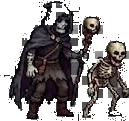
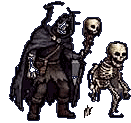
夥伴角色強化（5/12）：死靈法師
- 修圖：灰色棋盤格殘渣清掉；第 3 階段紫水晶、第 5 階段紫色煙霧裡的棋盤格抹平成半透明紫色靈氣，白色幽靈保留
- 特效：綠色魂火光暈、環繞小骷髏
- 專屬背景：起霧的墓園，綠月、教堂剪影、鐵欄杆、墓碑、枯樹，鬼火飄著、綠霧流動
- 部位動作：頭、上半身呼吸；召喚的骷髏、騎士、狼點頭；第 3 階段魂火跳動

Claude-Session: https://claude.ai/code/session_016wQJDqNmeMZi3CzSXZ7hYD

diff --git a/web/js/core.js b/web/js/core.js
@@ -177,11 +177,14 @@ const PET_FX = {
   // 馴獸師：森林的綠光，周圍繞著飄葉；人和野獸站在地上（不浮空）
   // 精靈使：水青色的靈光，環繞小光球；最終階段浮空
   spirit: { from: 2, aura: "140,240,215", orb: "wisp", colors: ["#1E6B66", "#5FE0C8", "#F2FFF9"], spark: "#BFFFF0", float: 5, sway: 2 },
+  // 死靈法師：綠色魂火的光暈，環繞小骷髏
+  necromancer: { from: 2, aura: "110,240,150", orb: "skull", colors: ["#1A1424", "#E8E2CF", "#4DFF9A"], spark: "#9BFFC4", sway: 2 },
   beast_tamer: { from: 2, aura: "140,215,100", orb: "leaf", colors: ["#28501C", "#68AE36", "#D2F59A"], spark: "#CFF59A", sway: 2 },
 };
 const ORB_GRID = {
   flame: ["...1...", "..121..", "..121..", ".12221.", ".12321.", "1223321", "1233321", ".12321.", "..111.."],
   bat: ["1.......1", "11.....11", "111.1.111", "111222111", ".1232321.", "..12221..", "...1.1..."],
+  skull: [".11111.", "1222221", "1322231", "1222221", ".12221.", ".12121.", "..111.."],
   wisp: ["..111..", ".12221.", "1233321", "1233321", ".12321.", "..121..", "...1..."],
   leaf: ["....111", "...1221", "..12321", ".123221", "1232211", "122211.", "1111...", "1......"],
 };
@@ -262,6 +265,27 @@ const PET_SCENE = {
       .map(([x, y], i) => `<i class="star" style="left:${(x / 160) * 100}%;top:${(y / 80) * 100}%;--i:${i}"></i>`).join("");
     return `<svg class="scene-art" viewBox="0 0 160 80" preserveAspectRatio="xMidYMax slice" shape-rendering="crispEdges">${s}</svg>${stars}<i class="mist"></i><i class="mist m2"></i>`;
   },
+  // 死靈法師：起霧的墓園，綠色月亮、墓碑、鐵欄杆、枯樹，鬼火飄著、地上綠霧流動
+  necromancer: () => {
+    let s = bands(0, ["#0A0E12", "#0D1318", "#10181D", "#131D22", "#162227", "#19272B", "#1C2C2F", "#1F3132", "#223534", "#253936"], 5);
+    s += pxCircle(36, 16, 9, "#2E5A3E") + pxCircle(36, 16, 8, "#9DE8A8") + pxCircle(33, 13, 2, "#7CCB8A") + pxCircle(39, 19, 2, "#7CCB8A");
+    // 遠方的山丘和教堂剪影
+    for (let x = 0; x < 160; x += 2) { const h = 5 + Math.round(3 * Math.sin(x / 12) + 2 * Math.sin(x / 4.3)); s += PX(x, 46 - h, 2, h, "#0C1614"); }
+    s += PX(110, 24, 16, 20, "#0A1210") + PX(116, 14, 4, 10, "#0A1210") + PX(117, 10, 2, 4, "#0A1210") + PX(115, 11, 6, 1, "#0A1210") + PX(117, 30, 2, 4, "#7CFFAA");
+    // 地面
+    s += PX(0, 46, 160, 34, "#1B2620") + PX(0, 46, 160, 2, "#26362C") + PX(0, 62, 160, 18, "#141C18");
+    // 鐵欄杆
+    for (let x = 0; x < 160; x += 6) s += PX(x, 38, 1, 9, "#0A0F0D") + PX(x, 37, 1, 1, "#3A4A42");
+    s += PX(0, 40, 160, 1, "#0A0F0D") + PX(0, 44, 160, 1, "#0A0F0D");
+    // 墓碑
+    const tomb = (x, y, w, h) => PX(x, y + 2, w, h - 2, "#5E6A66") + PX(x + 1, y, w - 2, 2, "#5E6A66") + PX(x + 1, y + 2, 1, h - 3, "#7D8A85") + PX(x + 2, y + 4, w - 4, 1, "#3C4643") + PX(x - 1, y + h, w + 2, 1, "#0E1412");
+    s += tomb(16, 48, 8, 10) + tomb(30, 52, 6, 8) + tomb(126, 49, 9, 11) + tomb(142, 54, 6, 8) + tomb(104, 58, 7, 9);
+    s += PX(52, 50, 2, 9, "#4E5955") + PX(50, 52, 6, 2, "#4E5955");
+    // 枯樹（右邊）
+    s += PX(150, 20, 3, 28, "#080C0A") + PX(144, 26, 6, 2, "#080C0A") + PX(153, 24, 6, 2, "#080C0A") + PX(142, 23, 2, 3, "#080C0A") + PX(158, 21, 2, 3, "#080C0A");
+    const wisps = Array.from({ length: 6 }, (_, i) => `<i class="firefly ghostfire" style="--i:${i}"></i>`).join("");
+    return `<svg class="scene-art" viewBox="0 0 160 80" preserveAspectRatio="xMidYMax slice" shape-rendering="crispEdges">${s}</svg>${wisps}<i class="mist green"></i><i class="mist green m2"></i>`;
+  },
   // 精靈使：月夜的精靈泉，極光、古樹、發光的蘑菇，螢火慢慢往上飄
   spirit: () => {
     let s = bands(0, ["#0B1430", "#0E1B3B", "#112346", "#142C50", "#17365A", "#1A4062", "#1D4A69", "#20536E", "#235B72", "#266274"], 5);
@@ -330,6 +354,7 @@ const PET_FRONT = {
       `<i class="petal front" style="--i:2"></i><i class="petal front" style="--i:5"></i>`;
   },
   succubus: () => `<i class="mist front"></i><i class="mist front m2"></i>`,
+  necromancer: () => `<i class="mist green front"></i><i class="mist green front m2"></i>`,
   spirit: () => {
     let s = "";
     for (let x = 0; x < 160; x += 3) {
@@ -353,7 +378,7 @@ const petFront = (id) => (PET_FRONT[id] ? `<span class="scene-front" aria-hidden
 
 // 夥伴圖：有拆部位的（rigs.json）用分層組回角色，點擊時頭、翅膀、尾巴、下襬各自動；沒有的用整張圖
 // 圖層順序：翅膀、尾巴、魔力圈在身體後面；上半身、頭在前面。腳留在身體層，不另外動
-const RIG_Z = { wingL: 0, wingR: 0, tail: 0, tailL: 0, tailR: 0, ringL: 0, ringR: 0, torso: 2, head: 3, beast: 2, mane: 2, crystal: 3, wisp: 3, fairy: 3, ghost: 3, flame: 3 };
+const RIG_Z = { wingL: 0, wingR: 0, tail: 0, tailL: 0, tailR: 0, ringL: 0, ringR: 0, torso: 2, head: 3, beast: 2, mane: 2, crystal: 3, wisp: 3, fairy: 3, ghost: 3, flame: 3, minion: 2 };
 function petSprite(id, stage, boxH) {
   const rig = S.rigs?.[id]?.[stage + 1], sp = species(id);
   if (!rig || !sp) return charImg(id, stage, boxH);

diff --git a/web/style.css b/web/style.css
@@ -862,6 +862,9 @@ ol.steps { margin: 0; padding-left: 1.4em; font-size: .9375rem; line-height: 1.7
   linear-gradient(#2E3B36, #2E3B36) 2px 1px / 3px 1px no-repeat; }
 .scene .firefly, .scene-front .firefly { position: absolute; bottom: 12%; left: calc(6% + var(--i) * 12%); width: 3px; height: 3px;
   background: #E4FFB0; box-shadow: 0 0 5px 1px rgba(200, 255, 150, .8); opacity: 0; }
+.scene .firefly.ghostfire { width: 4px; height: 5px; background: #8DFFB4; box-shadow: 0 0 6px 2px rgba(90, 255, 150, .7); }
+.scene .mist.green, .scene-front .mist.green {
+  background: repeating-linear-gradient(90deg, rgba(120, 230, 160, 0) 0 18px, rgba(120, 230, 160, .3) 18px 60px, rgba(120, 230, 160, 0) 60px 90px); }
 .scene .star { position: absolute; width: 3px; height: 3px; background: #FFF4D6; box-shadow: 0 0 4px #FFF4D6; }
 .scene .mist { position: absolute; left: -40%; bottom: 14%; width: 180%; height: 22px; opacity: .55;
   background: repeating-linear-gradient(90deg, rgba(190, 130, 230, .0) 0 18px, rgba(190, 130, 230, .35) 18px 60px, rgba(190, 130, 230, 0) 60px 90px); }
@@ -896,6 +899,9 @@ ol.steps { margin: 0; padding-left: 1.4em; font-size: .9375rem; line-height: 1.7
   filter: drop-shadow(-2px 0 0 rgba(255, 240, 214, .55)) drop-shadow(0 0 9px rgba(255, 150, 180, .35)) sepia(.06) saturate(1.04); }
 .stage[data-scene="succubus"] .pet img, .stage[data-scene="succubus"] .pet .wavy {
   filter: brightness(.9) drop-shadow(2px 0 0 rgba(225, 60, 95, .7)) drop-shadow(0 0 10px rgba(130, 60, 210, .4)); }
+.stage[data-scene="necromancer"] .pet img, .stage[data-scene="necromancer"] .pet .wavy {
+  filter: brightness(.95) drop-shadow(2px 0 0 rgba(140, 240, 170, .6)) drop-shadow(0 0 10px rgba(80, 210, 130, .35)); }
+.stage[data-scene="necromancer"] .pet-shadow { background: rgba(0, 8, 4, .6); box-shadow: 0 0 14px 4px rgba(80, 210, 130, .2); }
 .stage[data-scene="spirit"] .pet img, .stage[data-scene="spirit"] .pet .wavy {
   filter: brightness(.95) drop-shadow(-2px 0 0 rgba(220, 255, 245, .55)) drop-shadow(0 0 10px rgba(110, 230, 205, .35)); }
 .stage[data-scene="spirit"] .pet-shadow { background: rgba(5, 20, 25, .55); box-shadow: 0 0 14px 4px rgba(110, 230, 205, .2); }

diff --git a/tools/pixel_polish.py b/tools/pixel_polish.py
@@ -85,11 +85,11 @@ def drop_tint(a, mask, protect=(), max_sat=70, vmin=70, vmax=222, hue=None):
 
 
 def smooth_tint(a, mask, protect=(), max_sat=90, vmin=70, vmax=228, hue=None, sigma=5.0, lift=1.0, boxes=None,
-                glow=None, mix=0.0, alpha=255):
+                glow=None, mix=0.0, alpha=255, min_sat=0):
     """光芒和棋盤格交錯得太密、挖不乾淨時：不挖，改成把那一片「抹平」成柔和的光（棋盤格紋路消失，形狀保留）。"""
     hsv = np.array(Image.fromarray(a[..., :3]).convert("HSV")).astype(int)
     h = hsv[..., 0] * 360 // 256
-    sel = mask & (hsv[..., 1] <= max_sat) & (hsv[..., 2] >= vmin) & (hsv[..., 2] <= vmax)
+    sel = mask & (hsv[..., 1] <= max_sat) & (hsv[..., 1] >= min_sat) & (hsv[..., 2] >= vmin) & (hsv[..., 2] <= vmax)
     if hue:
         lo, hi = hue
         sel &= ((h >= lo) | (h < hi)) if lo > hi else ((h >= lo) & (h < hi))
@@ -209,6 +209,16 @@ TUNE = {
         4: {"tint": {"hue": (0, 70), "max_sat": 95, "vmin": 40, "vmax": 205, "protect": [(52, 28, 122, 155), (30, 18, 62, 150)]}},
         5: {"holes": False, "smooth": {"protect": [(86, 44, 104, 70), (66, 72, 120, 160)], "max_sat": 95, "vmax": 224, "sigma": 3,
                                        "glow": (255, 236, 190), "mix": 0.55, "alpha": 120}}}},
+    # 死靈法師：第 3 階段紫水晶裡的棋盤格、第 5 階段紫色煙霧裡的棋盤格 → 抹平成半透明紫色靈氣（白色幽靈保留）
+    "necromancer": {"sat": 1.1, "contrast": 1.1, "debris": True, "min_bit": 24, "holes": True, "stages": {
+        3: {"smooth": [{"hue": (225, 320), "max_sat": 200, "vmin": 50, "vmax": 225, "boxes": [(98, 2, 131, 48)], "sigma": 2,
+                        "glow": (150, 90, 230), "mix": 0.3, "alpha": 190},
+                       {"max_sat": 45, "vmin": 80, "vmax": 220, "boxes": [(98, 2, 131, 48)], "sigma": 2,
+                        "glow": (150, 90, 230), "mix": 0.5, "alpha": 150}]},
+        5: {"holes": False, "smooth": [
+            {"hue": (225, 320), "min_sat": 38, "vmin": 35, "vmax": 228, "sigma": 4, "glow": (140, 85, 220), "mix": 0.4, "alpha": 150},
+            {"max_sat": 45, "vmin": 80, "vmax": 215, "protect": [(62, 20, 132, 173), (28, 5, 58, 173), (125, 88, 196, 173)],
+             "sigma": 3, "glow": (150, 90, 230), "mix": 0.5, "alpha": 130}]}}},
     "fox_spirit": {"sat": 1.25, "contrast": 1.08},   # 和服的紅、紫、金更華麗
     # 魅魔：跟九尾狐的粉紅分開 → 粉紅轉成深紫紅、整體暗一點；翅膀和魔力圈裡夾著背景棋盤格
     "succubus": {"sat": 1.2, "contrast": 1.12, "holes": True, "hue": [(296, 8, -30, 0.84)]},

diff --git a/tools/rig_split.py b/tools/rig_split.py
@@ -57,6 +57,15 @@ RIGS: dict[str, dict[int, list]] = {
             ("flame", [78, 18, 100, 92], [90, 90], "flicker"), ("torso", [38, 72, 85, 112], [62, 112], "breath")],
         4: [("head", [65, 30, 105, 72], [85, 72], "tilt"), ("ghost", [118, 16, 169, 112], [140, 100], "bob"), ("torso", [55, 72, 118, 112], [86, 112], "breath")],
         5: [("head", [84, 44, 106, 72], [95, 72], "tilt"), ("torso", [66, 72, 120, 112], [93, 112], "breath")]},
+    # 死靈法師：人動頭和上半身；召喚出來的骷髏、騎士、狼的頭會點頭；第 3 階段紫水晶裡的魂火跳動
+    "necromancer": {
+        1: [("head", [22, 10, 55, 40], [38, 40], "tilt"), ("minion", [62, 86, 92, 112], [76, 108], "nod"), ("torso", [12, 40, 58, 75], [35, 75], "breath")],
+        2: [("head", [42, 2, 82, 38], [60, 38], "tilt"), ("minion", [88, 40, 130, 68], [106, 68], "nod"), ("torso", [20, 38, 82, 78], [50, 78], "breath")],
+        3: [("head", [55, 10, 95, 50], [75, 50], "tilt"), ("flame", [100, 2, 134, 50], [115, 48], "flicker"),
+            ("minion", [128, 42, 153, 72], [140, 72], "nod"), ("torso", [42, 50, 105, 95], [72, 95], "breath")],
+        4: [("minion", [128, 58, 156, 82], [142, 82], "nod"), ("torso", [55, 70, 108, 115], [82, 115], "breath")],
+        5: [("head", [90, 30, 116, 62], [103, 62], "tilt"), ("beast", [158, 92, 196, 136], [162, 112], "nod"),
+            ("torso", [72, 62, 130, 110], [100, 110], "breath")]},
     "fox_spirit": {
         1: [("head", [36, 0, 77, 42], [52, 40], "tilt"), ("tail", [4, 18, 36, 66], [36, 52], "wag")],
         2: [("head", [48, 8, 82, 46], [64, 46], "tilt"), ("tailL", [6, 38, 50, 112], [50, 70], "fanL"), ("torso", [46, 46, 85, 95], [64, 95], "breath")],
